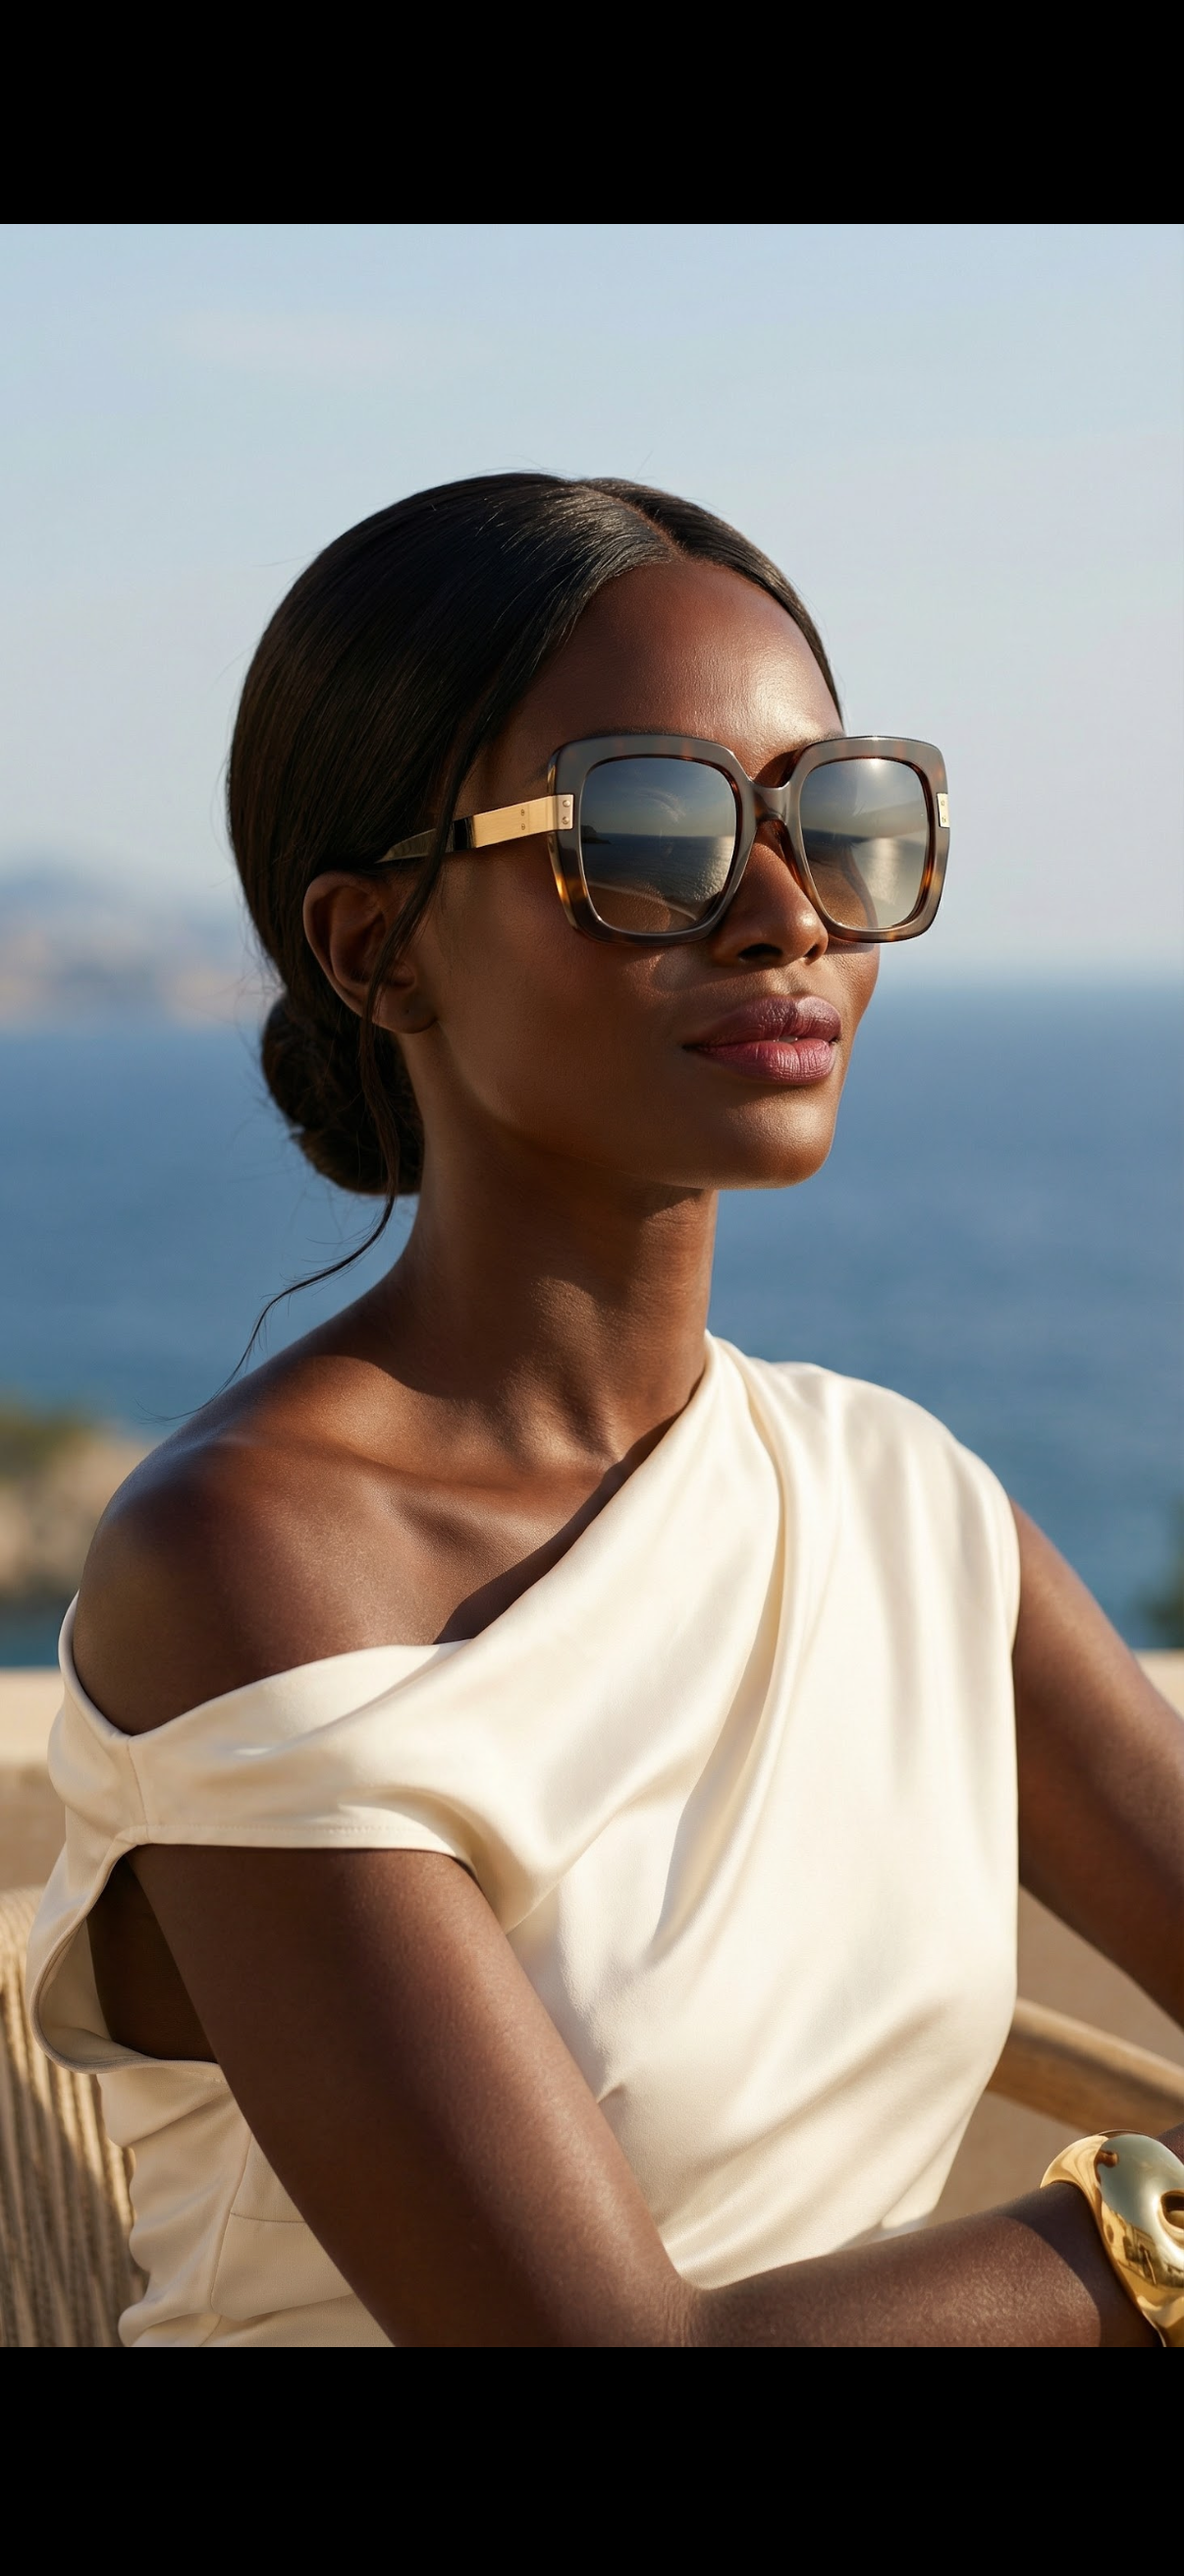
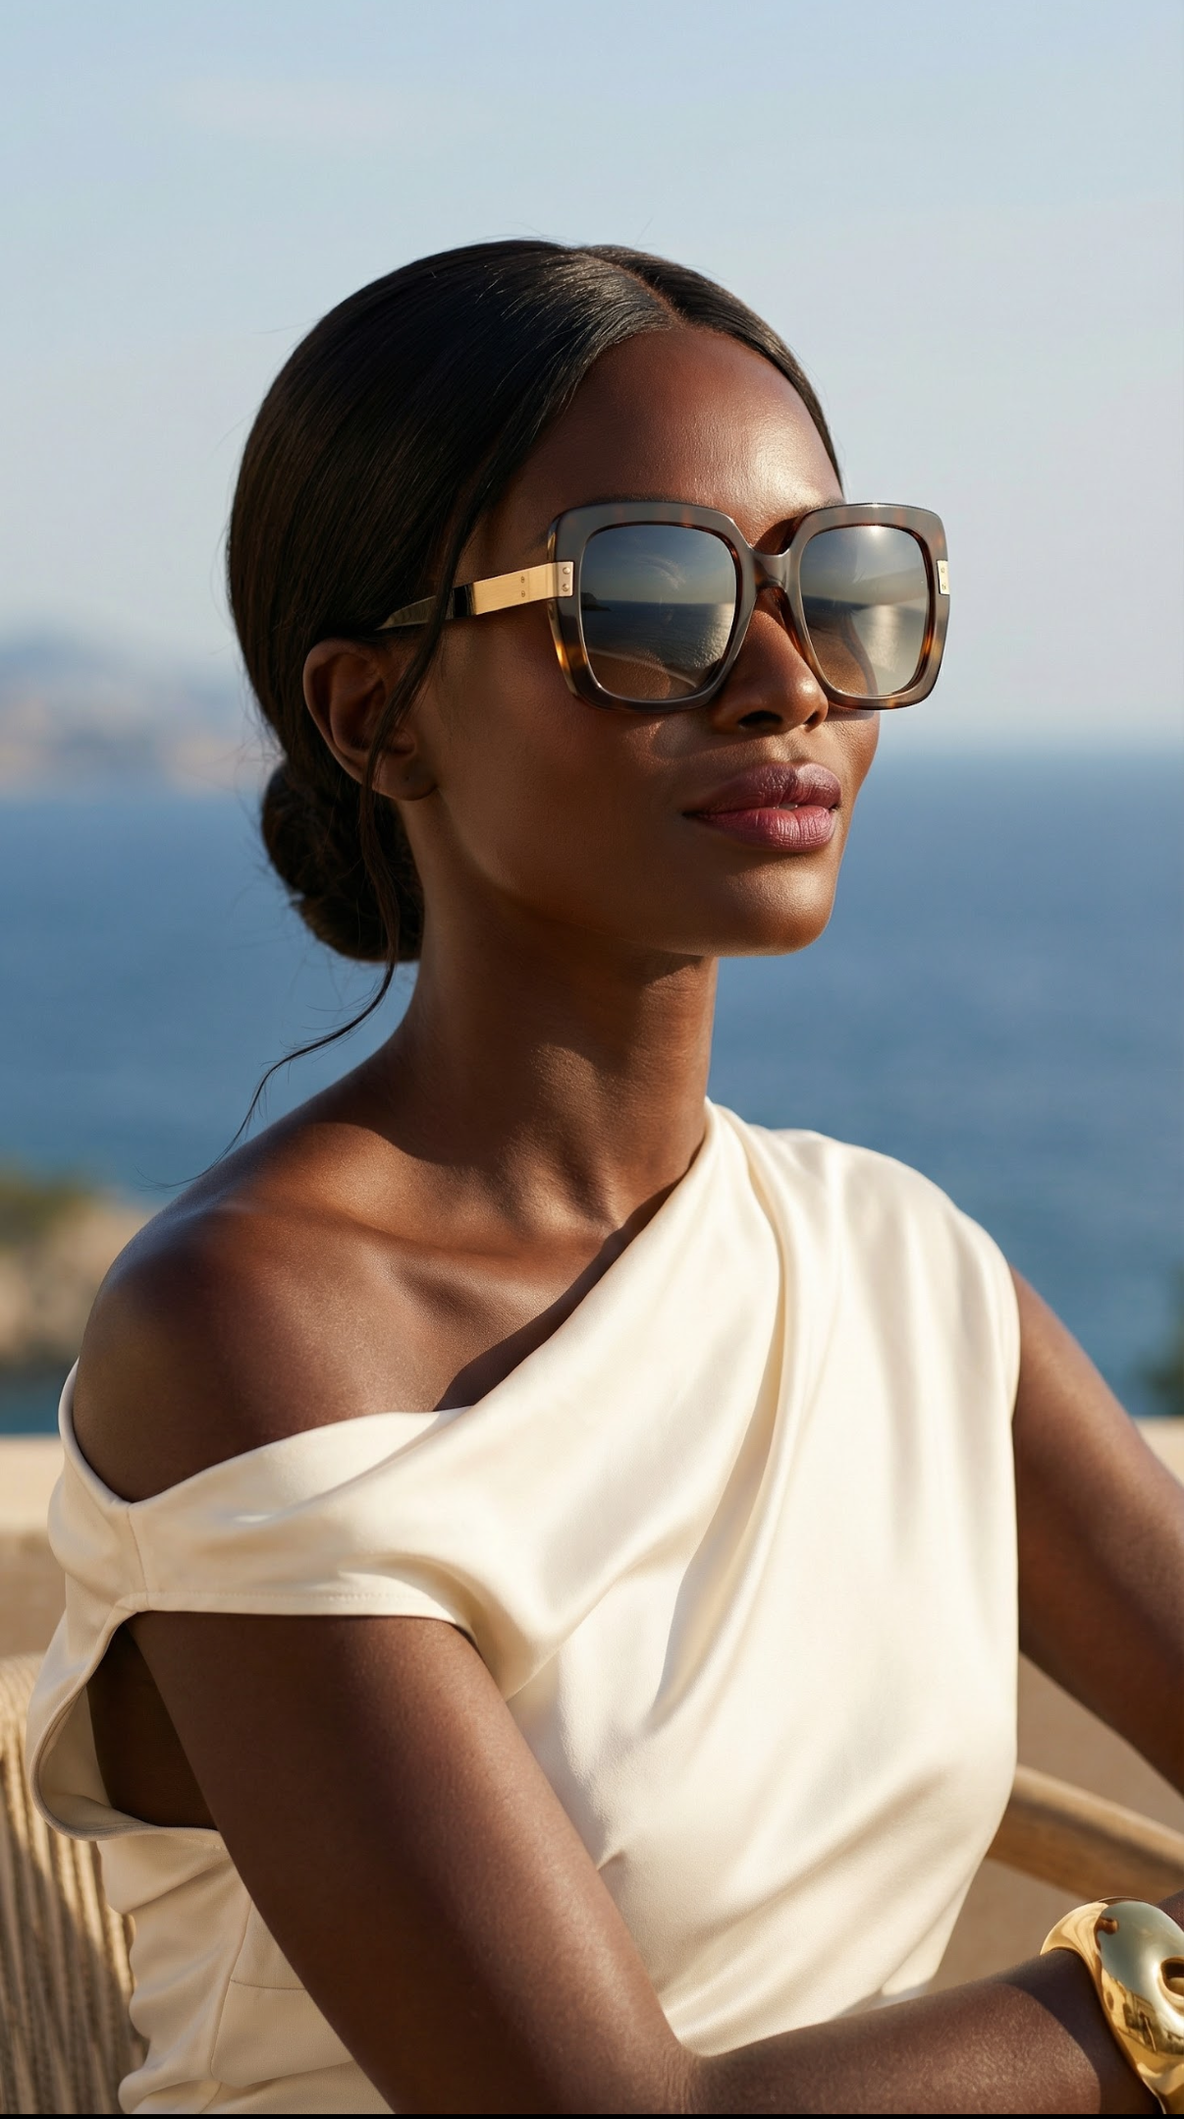
fix: sync new updated 'a' images from public folder and remove a (1).jpeg reference

diff --git a/frontend/src/MobileApp.jsx b/frontend/src/MobileApp.jsx
@@ -1059,7 +1059,7 @@ const MobileApp = () => {
             onClick={() => setCurrentView('works-image')} 
             style={{ flex: 1, position: 'relative', overflow: 'hidden', cursor: 'pointer' }}
           >
-            <img src="/a (1).jpeg" alt="Image Category" style={{ width: '100%', height: '100%', objectFit: 'cover' }} />
+            <img src="/a.jpeg" alt="Image Category" style={{ width: '100%', height: '100%', objectFit: 'cover' }} />
             <div style={{ position: 'absolute', top: 0, left: 0, right: 0, bottom: 0, backgroundColor: 'transparent', display: 'flex', alignItems: 'center', justifyContent: 'center' }}>
               <h2 style={{ color: '#fff', fontSize: '3rem', fontWeight: 700, letterSpacing: '4px', margin: 0, textShadow: '0 4px 20px rgba(0,0,0,0.9), 0 2px 10px rgba(0,0,0,0.5)' }}>IMAGE</h2>
             </div>
@@ -1088,7 +1088,8 @@ const MobileApp = () => {
           </div>
           <div className="mobile-image-feed" style={{ display: 'flex', flexDirection: 'column', gap: '4px', paddingBottom: '60px' }}>
             {[
-              '/a (1).PNG', '/a (1).jpeg', '/a (1).jpg',
+              '/a.jpeg',
+              '/a (1).PNG', '/a (1).jpg',
               '/a (2).jpeg', '/a (2).jpg',
               '/a (3).jpeg', '/a (3).jpg',
               '/a (4).jpeg', '/a (4).jpg',
